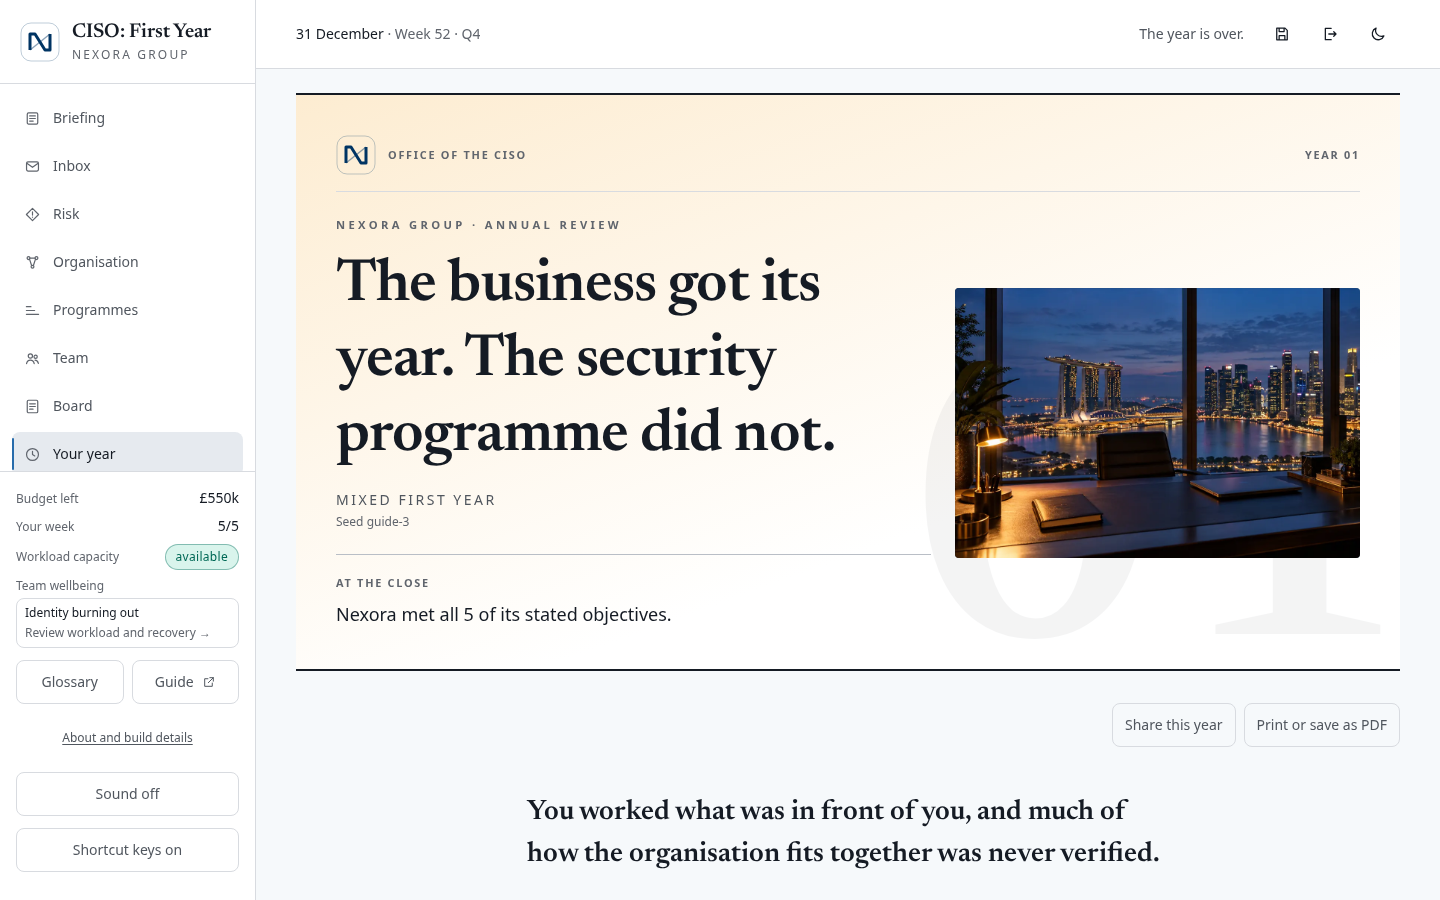
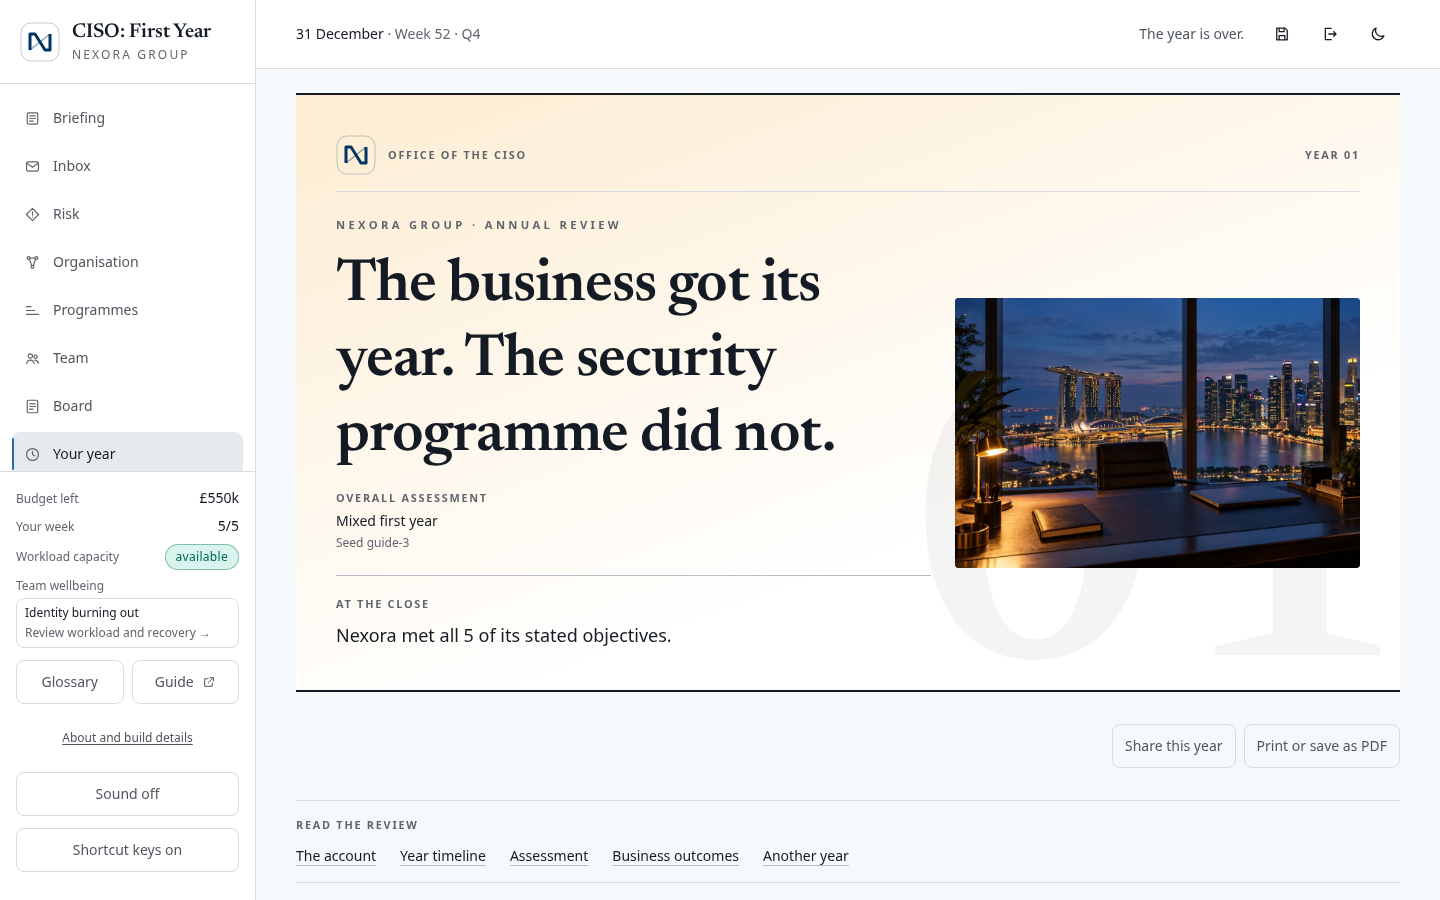
Improve annual review navigation and board paper reading flow

diff --git a/src/screens/debrief/DebriefScreen.tsx b/src/screens/debrief/DebriefScreen.tsx
@@ -150,7 +150,8 @@ export function DebriefScreen() {
             <h1 className="mt-4 max-w-[22ch] font-display text-4xl leading-tight text-balance sm:text-5xl lg:text-6xl">
               {review.headline}
             </h1>
-            <p className="mt-4 text-sm uppercase tracking-[0.18em] text-ink-muted">{review.performanceBand}</p>
+            <p className="mt-4 document-kicker">Overall assessment</p>
+            <p className="mt-1 text-sm font-medium text-ink">{review.performanceBand}</p>
             <p className="mt-1 text-xs text-ink-faint">Seed {state.seed}</p>
             <div className="mt-6 border-t border-line-strong pt-5">
               <p className="document-kicker">At the close</p>
@@ -205,7 +206,20 @@ export function DebriefScreen() {
         />
       </Dialog>
 
-      <article className="report-narrative space-y-4">
+      <nav aria-label="Annual review sections" data-print="hide" className="border-y border-line py-4">
+        <p className="document-kicker mb-3">Read the review</p>
+        <ul className="grid grid-cols-2 gap-x-5 gap-y-3 text-sm sm:flex sm:flex-wrap sm:gap-x-6">
+          {[
+            ['review-account', 'The account'],
+            ['the-year', 'Year timeline'],
+            ['dimensions', 'Assessment'],
+            ['objectives', 'Business outcomes'],
+            ['another-year', 'Another year'],
+          ].map(([id, label]) => <li key={id}><a className="underline decoration-line-strong underline-offset-4 hover:text-accent-ink" href={`#${id}`}>{label}</a></li>)}
+        </ul>
+      </nav>
+
+      <article id="review-account" tabIndex={-1} className="scroll-mt-36 report-narrative space-y-4">
           {review.narrative.map((paragraph, position) => (
             <p key={position} className="text-pretty leading-relaxed">
               {paragraph}
@@ -216,7 +230,7 @@ export function DebriefScreen() {
       <ReviewMoments />
 
       <section aria-labelledby="the-year">
-        <SectionHeading><span id="the-year">Your year, day by day</span></SectionHeading>
+        <SectionHeading><span id="the-year" tabIndex={-1} className="scroll-mt-36">Your year, day by day</span></SectionHeading>
         <Card>
           <CardBody>
             <YearTimeline lanes={timeline} />
@@ -225,7 +239,7 @@ export function DebriefScreen() {
       </section>
 
       <section aria-labelledby="dimensions">
-        <SectionHeading><span id="dimensions">How the year is read</span></SectionHeading>
+        <SectionHeading><span id="dimensions" tabIndex={-1} className="scroll-mt-36">How the year is read</span></SectionHeading>
         {/* A strip you read down, not eight boxes competing for the eye. The
             verdict sits in a fixed column so the shape of the year is legible
             before a single sentence is read. */}
@@ -256,7 +270,7 @@ export function DebriefScreen() {
       </section>
 
       <section aria-labelledby="objectives">
-        <SectionHeading><span id="objectives">What the business achieved</span></SectionHeading>
+        <SectionHeading><span id="objectives" tabIndex={-1} className="scroll-mt-36">What the business achieved</span></SectionHeading>
         <Card>
           <CardBody>
             <ul className="space-y-2">
@@ -360,7 +374,7 @@ export function DebriefScreen() {
       )}
 
       <section aria-labelledby="another-year">
-        <SectionHeading><span id="another-year">Another year</span></SectionHeading>
+        <SectionHeading><span id="another-year" tabIndex={-1} className="scroll-mt-36">Another year</span></SectionHeading>
         <Card>
           <CardBody className="space-y-3">
             {state.finished && (

diff --git a/tests/e2e/presentation.spec.ts b/tests/e2e/presentation.spec.ts
@@ -1,5 +1,5 @@
 import { expect, test } from '@playwright/test'
-import { startCampaign } from './helpers'
+import { expectNoHorizontalScroll, goTo, startCampaign } from './helpers'
 import { openPreparedCampaign, prepareCampaign } from './prepared'
 import type { GameState } from '../../src/game/types'
 
@@ -49,6 +49,14 @@ test('the annual cover and choice highlights reflect the recorded year', async (
   await openPreparedCampaign(page, save)
   const cover = page.locator('.report-cover')
   await expect(cover.getByText('At the close', { exact: true })).toBeVisible()
+  const sections = page.getByRole('navigation', { name: 'Annual review sections' })
+  await sections.getByRole('link', { name: 'Assessment', exact: true }).click()
+  await expect(page.locator('#dimensions')).toBeFocused()
+  await expect(page.locator('#dimensions')).toBeInViewport()
+  await sections.getByRole('link', { name: 'Year timeline', exact: true }).click()
+  await expect(page.locator('#the-year')).toBeInViewport()
+  await expect(page.getByRole('list', { name: 'Timeline marker key' })).toContainText('Lapsed decision')
+  await expectNoHorizontalScroll(page)
   const moments = page.getByRole('region', { name: 'Choices from your year', exact: true })
   await expect(moments.locator('ol > li')).toHaveCount(3)
   await expect(moments.getByRole('heading', { name: 'Where do you start?', exact: true })).toBeVisible()
@@ -67,4 +75,22 @@ test('the annual cover and choice highlights reflect the recorded year', async (
   await openPreparedCampaign(page, save)
   await expect(moments).toHaveCount(0)
   await expect(page.getByRole('heading', { name: 'How the year is read', exact: true })).toBeVisible()
+})
+
+
+test('the board paper keeps context scrollable and its dates distinct', async ({ page }) => {
+  await openPreparedCampaign(page, prepareCampaign('guide-3', 'board'))
+  await goTo(page, 'Board')
+  const note = page.getByRole('button', { name: 'Got it', exact: true })
+  if (await note.isVisible()) await note.click()
+  await page.getByRole('button', { name: /Prepare the Q1 board paper/ }).click()
+  const paper = page.getByRole('dialog', { name: 'Board paper: quarter 1', exact: true })
+  const description = await paper.getAttribute('aria-describedby')
+  await expect(paper.locator('.scroll-area').locator(`[id="${description}"]`)).toBeVisible()
+  await expect(paper.locator('.paper-dates dt')).toHaveText(['Reporting period', 'Prepared', 'Submit by'])
+  await expect(paper.locator('.paper-dates dd')).toHaveText(['Q1 results · presented in Q2', '2 April', '1 July'])
+  await paper.getByRole('heading', { name: 'Your submission' }).scrollIntoViewIfNeeded()
+  await expect(paper.getByRole('button', { name: 'Close', exact: true })).toBeInViewport()
+  await expect(paper.getByRole('button', { name: 'Take it to the board', exact: true })).toBeInViewport()
+  await expectNoHorizontalScroll(page)
 })

diff --git a/src/screens/board/BoardScreen.tsx b/src/screens/board/BoardScreen.tsx
@@ -195,6 +195,7 @@ export function BoardScreen() {
         onClose={() => setPreparing(false)}
         size="lg"
         title={`Board paper: quarter ${pendingQuarter ?? ''}`}
+        descriptionInBody
         description="Pick what the committee sees. It expects every risk rated high or with a high consequence, every risk accepted on its behalf, any incident or failed assumption it has not yet been told about, and a team past its limit. The rest is your call."
         footer={
           <>
@@ -205,10 +206,14 @@ export function BoardScreen() {
       >
         <div className="board-paper space-y-6">
           <header className="flex items-start justify-between gap-4 border-b-2 border-ink pb-5">
-            <div><p className="document-kicker">Nexora Group</p><p className="mt-2 font-display text-2xl">Board Risk Committee</p><p className="mt-1 text-sm text-ink-muted">Management paper · {formatGameDate(state.currentDay).label}</p></div>
+            <div><p className="document-kicker">Nexora Group</p><p className="mt-2 font-display text-2xl">Board Risk Committee</p><p className="mt-1 text-sm text-ink-muted">Management paper</p></div>
             <span aria-hidden="true" className="font-display text-5xl text-ink-faint">Q{pendingQuarter}</span>
           </header>
-          <p className="text-sm text-ink-muted">This paper reports Q{pendingQuarter} results during Q{Math.min(4, (pendingQuarter ?? 0) + 1)}. The date above is when you prepare it; the submission deadline is shown on the committee card.</p>
+          <dl className="paper-dates grid grid-cols-2 gap-4 border-b border-line pb-5 text-sm sm:grid-cols-3">
+            <div><dt className="text-xs text-ink-faint">Reporting period</dt><dd className="mt-1 font-medium">Q{pendingQuarter} results · presented in Q{Math.min(4, (pendingQuarter ?? 0) + 1)}</dd></div>
+            <div><dt className="text-xs text-ink-faint">Prepared</dt><dd className="mt-1 font-medium">{formatGameDate(state.currentDay).label}</dd></div>
+            <div className="col-span-2 sm:col-span-1"><dt className="text-xs text-ink-faint">Submit by</dt><dd className="mt-1 font-medium">{formatGameDate(((pendingQuarter ?? 0) + 1) * DAYS_PER_QUARTER - 1).label}</dd></div>
+          </dl>
           {availableTopics.length === 0 ? (
             <EmptyState
               title="No agenda topics are eligible yet"

diff --git a/src/components/debrief/YearTimeline.tsx b/src/components/debrief/YearTimeline.tsx
@@ -39,7 +39,7 @@ function Lane({ lane }: { lane: TimelineLane }) {
       <span className="hidden sm:block sm:justify-self-end" style={{ color: colour }}>
         <Icon name={lane.icon} size={17} />
       </span>
-      <div className="flex items-center gap-2 sm:block sm:text-right">
+      <div className="flex flex-wrap items-center gap-x-2 gap-y-1 sm:block sm:text-right">
         <span className="sm:hidden" style={{ color: colour }}>
           <Icon name={lane.icon} size={16} />
         </span>
@@ -48,6 +48,9 @@ function Lane({ lane }: { lane: TimelineLane }) {
       </div>
 
       <div className="relative h-10 border-t border-line">
+        <div aria-hidden="true" className="pointer-events-none absolute inset-0 grid grid-cols-4">
+          {[0, 1, 2, 3].map((quarter) => <span key={quarter} className="border-l border-line" />)}
+        </div>
         {empty && (
           <span className="absolute inset-y-0 left-0 flex items-center text-xs text-ink-faint">
             nothing this year
@@ -133,6 +136,13 @@ export function YearTimeline({ lanes }: { lanes: TimelineLane[] }) {
           <Lane key={lane.id} lane={lane} />
         ))}
       </div>
+
+      <ul aria-label="Timeline marker key" className="flex flex-wrap gap-x-5 gap-y-2 border-t border-line pt-3 text-xs text-ink-muted">
+        <li className="flex items-center gap-2"><span aria-hidden="true" className="h-4 w-[3px] bg-ink" />Recorded event</li>
+        <li className="flex items-center gap-2"><span aria-hidden="true" className="h-4 w-[3px] border border-dashed border-ink-faint" />Lapsed decision</li>
+        <li className="flex items-center gap-2"><span aria-hidden="true" className="h-3 w-6 rounded-full bg-chart-programme/30" />Completed programme</li>
+        <li className="flex items-center gap-2"><span aria-hidden="true" className="h-3 w-6 rounded-full border border-dashed border-chart-programme" />Unfinished programme</li>
+      </ul>
 
       <details className="rounded-lg border border-line bg-surface-2">
         <summary className="cursor-pointer px-3 py-2 text-sm font-medium">Read the year as a list</summary>

diff --git a/tests/ui/playtest-followup.test.tsx b/tests/ui/playtest-followup.test.tsx
@@ -59,7 +59,10 @@ describe('the October playtest follow-up', () => {
     render(<BoardScreen />)
     fireEvent.click(screen.getByRole('button', { name: /Prepare the Q1 board paper/ }))
     const dialog = screen.getByRole('dialog')
-    expect(within(dialog).getByText(/This paper reports Q1 results during Q2/)).toBeVisible()
+    expect(within(dialog).getByText('Q1 results · presented in Q2')).toBeVisible()
+    expect(within(dialog).getByText('Prepared', { exact: true })).toBeVisible()
+    expect(within(dialog).getByText('Submit by', { exact: true })).toBeVisible()
+    expect(within(dialog).getByText('1 July', { exact: true })).toBeVisible()
     expect(within(dialog).getByText('No agenda topics are eligible yet')).toBeVisible()
     expect(within(dialog).getByText('Recommendations', { exact: true })).toBeVisible()
     const submission = within(dialog).getByRole('region', { name: 'Your submission' })

diff --git a/tests/e2e/print.spec.ts b/tests/e2e/print.spec.ts
@@ -24,6 +24,7 @@ test('the annual review prints as a document', async ({ page, browserName }, tes
   await expect(page.getByRole('button', { name: 'Print or save as PDF' })).toBeHidden()
   await expect(page.getByRole('heading', { level: 1 })).toBeVisible()
   await expect(page.locator('.closing-scene')).toBeHidden()
+  await expect(page.getByRole('navigation', { name: 'Annual review sections' })).toBeHidden()
   const paperWidth = await page.locator('.report-opening').evaluate((element) => ({ content: element.firstElementChild!.getBoundingClientRect().width, available: element.getBoundingClientRect().width }))
   expect(paperWidth.content).toBeGreaterThanOrEqual(paperWidth.available - 2)
 

diff --git a/docs/PLAYER_GUIDE.md b/docs/PLAYER_GUIDE.md
@@ -361,6 +361,10 @@ summary. Before taking it to the board, check the selected-topic and
 recommendation counts and whether you acknowledged uncertainty. The summary
 reflects your selections; it does not certify that the paper is complete.
 
+The paper shows its reporting period, preparation date and submission deadline
+together above the agenda. Its introduction scrolls with the document, leaving
+the title, Close and submission controls within reach.
+
 ![The board paper](images/08-board.png)
 
 Three times a year — at the end of Q1, Q2 and Q3 — the board risk committee
@@ -441,6 +445,10 @@ phase updates where retained. It does not estimate alternative outcomes.
 ---
 
 ## How the year is judged
+
+Use **Read the review** to jump to the account, timeline, assessment, business
+outcomes or next year. The timeline key explains events, lapsed decisions and
+programme bars; quarter guides carry across every lane.
 
 ![The annual review](images/10-review.png)
 

diff --git a/AGENTS.md b/AGENTS.md
@@ -32,6 +32,12 @@ changes.
 
 ## Artwork
 
+- Annual-review section links must reach and focus their targets beneath the
+  header, and disappear in print. Timeline guides and keys describe recorded
+  marks and programme completion only. Do not invent opening/closing snapshots.
+- Board introductions scroll with the paper; keep title, Close and footer
+  reachable. Show reporting period, preparation date and actual deadline together.
+
 - Map selection and direct neighbours carry distinct text labels; keep the
   inspector selection cue consistent. Space rows for wrapped names and public
   status labels without overlap, and draw highlighted edges behind node cards.

diff --git a/CHANGELOG.md b/CHANGELOG.md
@@ -10,6 +10,9 @@ The game as it stands after the roadmap's engineering phases
 (`docs/ROADMAP.md`, Phases 0–7). Version 0.1.0 until the owner tags a release.
 
 ### Playing
+- Annual reviews have section links, a labelled overall assessment and timeline
+  quarter guides with a marker key. Board introductions scroll with the paper,
+  and its reporting period, preparation date and deadline sit together.
 - Map neighbours are labelled Directly connected, with more space between rows,
   links behind cards and a matching selection cue on the inspector. Team dossiers give phone facts
   more room and separate function capacity from wellbeing guidance.

diff --git a/README.md b/README.md
@@ -113,6 +113,11 @@ capacity from wellbeing guidance. Team functions and programme
 portfolios use quieter rows that stack on phones, keeping costs, staffing,
 morale, blockers and actions visible.
 
+The annual review has keyboard-accessible section links, labelled assessment
+and quarter guides with a timeline marker key. Section links are omitted from
+print. Board paper introductions scroll with the document; reporting period,
+preparation date and submission deadline appear together above the agenda.
+
 ## Running it
 
 ```bash
